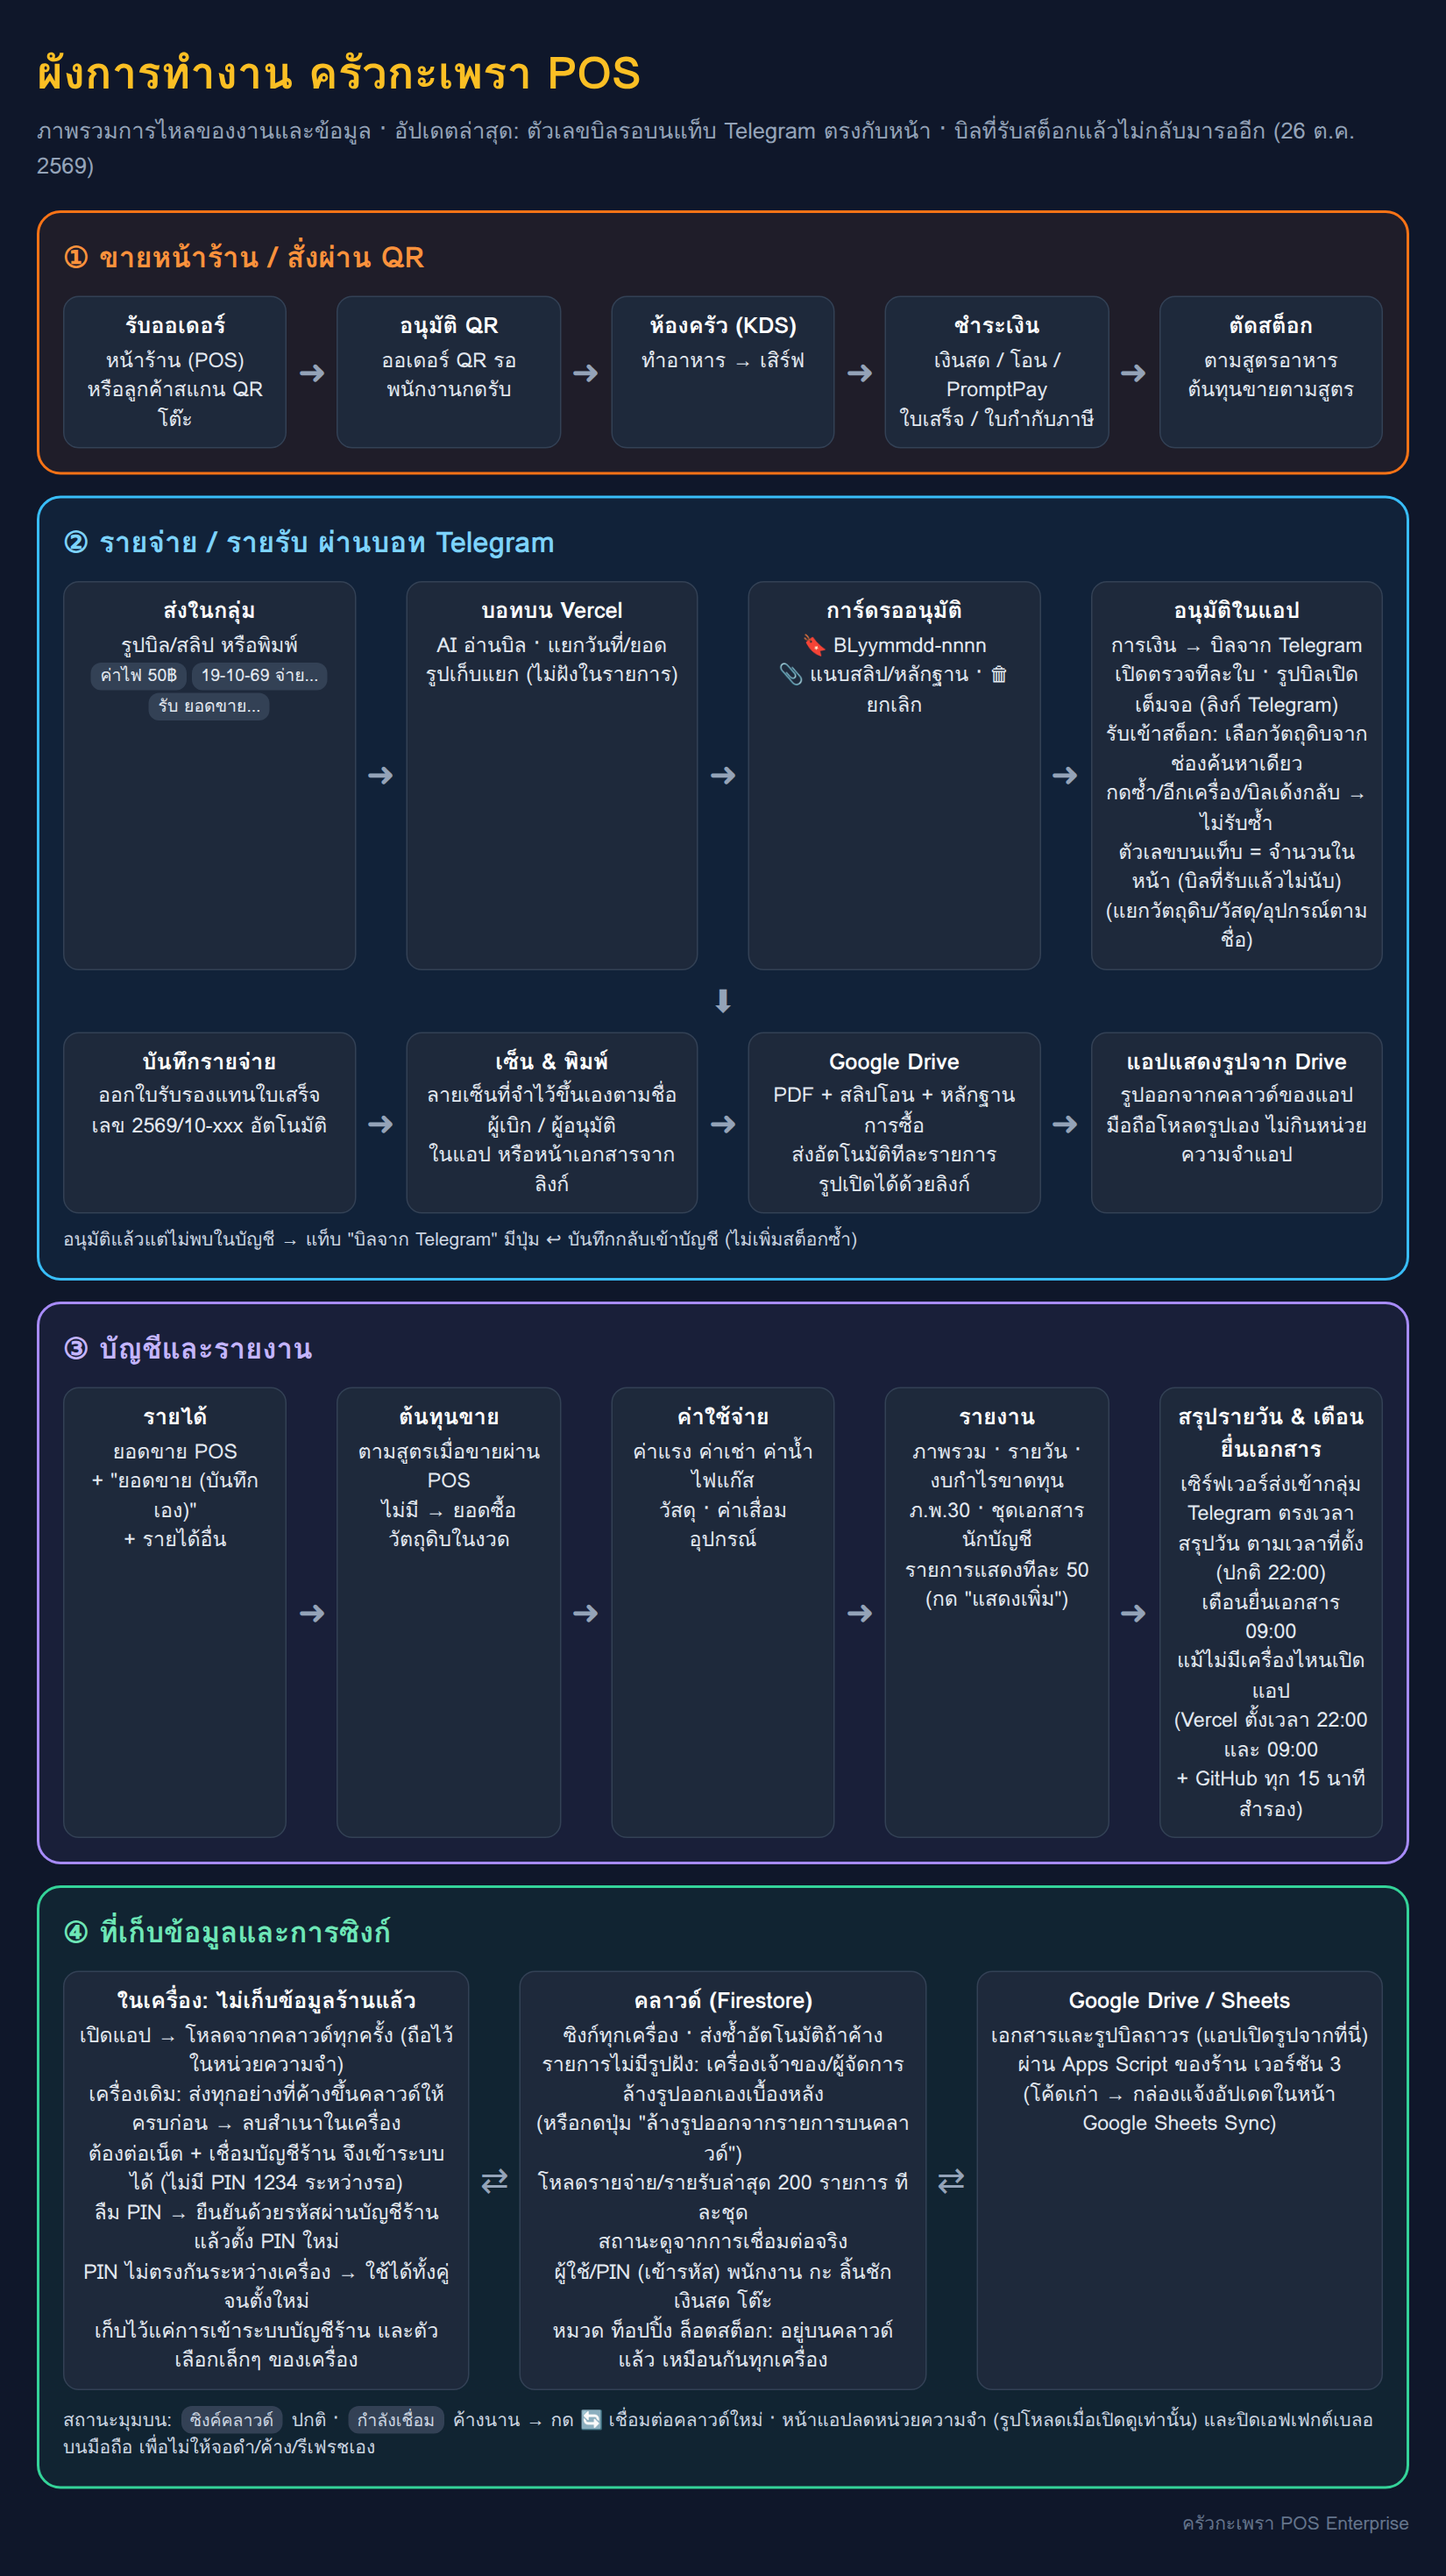
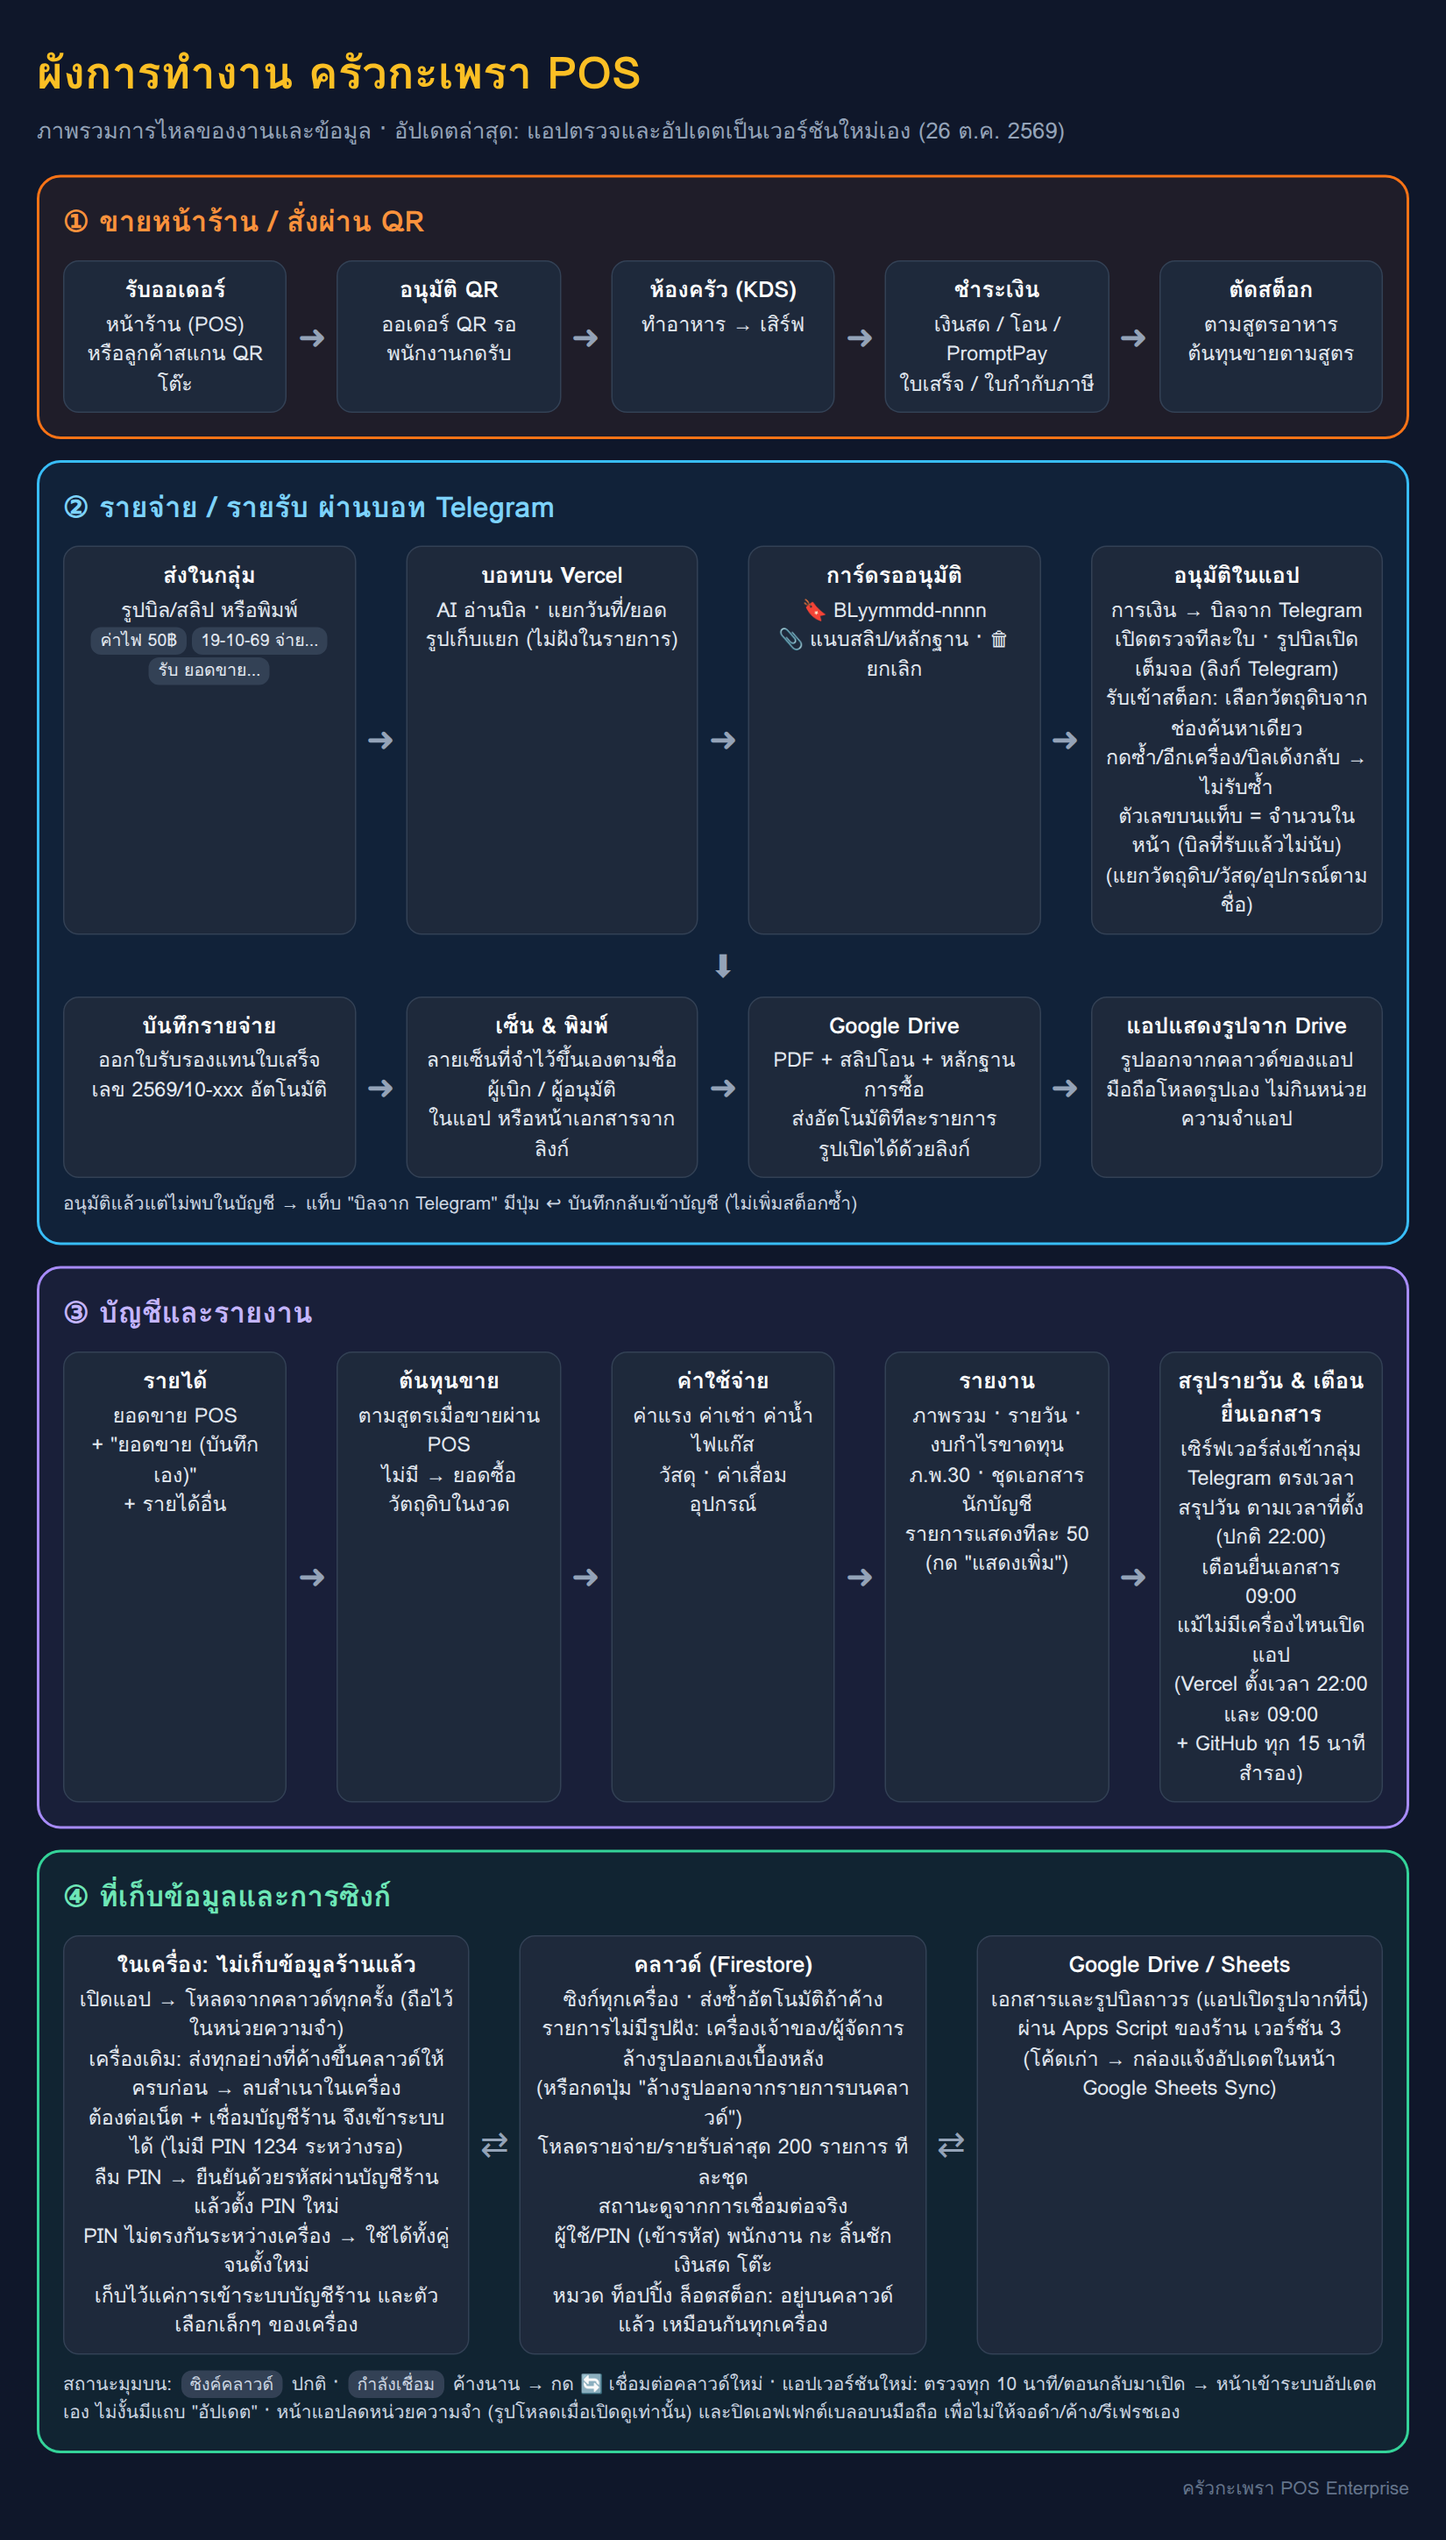
The app picks up new versions by itself
The Telegram tab still showed 2 while the page showed none: the phone was
still running the version from before the fix (published hours
earlier). A home-screen app on iPhone stays open in the background and
did not load new versions.

The app checks for a newer version when it comes back to the screen and
every 10 minutes: on the sign-in screen, or back after 20 minutes with no
order in progress, it reloads by itself; otherwise a bar offers the
update.

Claude-Session: https://claude.ai/code/session_01Gq3UvYW4wv3hsVCXoh5wxy

diff --git a/docs/workflow/flow.html b/docs/workflow/flow.html
@@ -17,7 +17,7 @@ h1{margin:0 0 4px;font-size:34px;color:#fbbf24}.sub{color:#94a3b8;font-size:17px
 .foot{color:#64748b;font-size:14px;margin-top:6px;text-align:right}
 </style></head><body>
 <h1>ผังการทำงาน ครัวกะเพรา POS</h1>
-<div class="sub">ภาพรวมการไหลของงานและข้อมูล · อัปเดตล่าสุด: ตัวเลขบิลรอบนแท็บ Telegram ตรงกับหน้า · บิลที่รับสต็อกแล้วไม่กลับมารออีก (26 ต.ค. 2569)</div>
+<div class="sub">ภาพรวมการไหลของงานและข้อมูล · อัปเดตล่าสุด: แอปตรวจและอัปเดตเป็นเวอร์ชันใหม่เอง (26 ต.ค. 2569)</div>
 
 <div class="lane pos"><h2>① ขายหน้าร้าน / สั่งผ่าน QR</h2>
 <div class="row">
@@ -60,7 +60,7 @@ h1{margin:0 0 4px;font-size:34px;color:#fbbf24}.sub{color:#94a3b8;font-size:17px
 <div class="box"><b>คลาวด์ (Firestore)</b>ซิงก์ทุกเครื่อง · ส่งซ้ำอัตโนมัติถ้าค้าง<br>รายการไม่มีรูปฝัง: เครื่องเจ้าของ/ผู้จัดการล้างรูปออกเองเบื้องหลัง<br>(หรือกดปุ่ม "ล้างรูปออกจากรายการบนคลาวด์")<br>โหลดรายจ่าย/รายรับล่าสุด 200 รายการ ทีละชุด<br>สถานะดูจากการเชื่อมต่อจริง<br>ผู้ใช้/PIN (เข้ารหัส) พนักงาน กะ ลิ้นชักเงินสด โต๊ะ<br>หมวด ท็อปปิ้ง ล็อตสต็อก: อยู่บนคลาวด์แล้ว เหมือนกันทุกเครื่อง</div><div class="ar">⇄</div>
 <div class="box"><b>Google Drive / Sheets</b>เอกสารและรูปบิลถาวร (แอปเปิดรูปจากที่นี่)<br>ผ่าน Apps Script ของร้าน เวอร์ชัน 3<br>(โค้ดเก่า → กล่องแจ้งอัปเดตในหน้า Google Sheets Sync)</div>
 </div>
-<div class="note">สถานะมุมบน: <span class="tag">ซิงค์คลาวด์</span> ปกติ · <span class="tag">กำลังเชื่อม</span> ค้างนาน → กด 🔄 เชื่อมต่อคลาวด์ใหม่ · หน้าแอปลดหน่วยความจำ (รูปโหลดเมื่อเปิดดูเท่านั้น) และปิดเอฟเฟกต์เบลอบนมือถือ เพื่อไม่ให้จอดำ/ค้าง/รีเฟรชเอง</div>
+<div class="note">สถานะมุมบน: <span class="tag">ซิงค์คลาวด์</span> ปกติ · <span class="tag">กำลังเชื่อม</span> ค้างนาน → กด 🔄 เชื่อมต่อคลาวด์ใหม่ · แอปเวอร์ชันใหม่: ตรวจทุก 10 นาที/ตอนกลับมาเปิด → หน้าเข้าระบบอัปเดตเอง ไม่งั้นมีแถบ "อัปเดต" · หน้าแอปลดหน่วยความจำ (รูปโหลดเมื่อเปิดดูเท่านั้น) และปิดเอฟเฟกต์เบลอบนมือถือ เพื่อไม่ให้จอดำ/ค้าง/รีเฟรชเอง</div>
 </div>
 <div class="foot">ครัวกะเพรา POS Enterprise</div>
 </body></html>

diff --git a/src/components/UpdateWatcher.tsx b/src/components/UpdateWatcher.tsx
@@ -1,0 +1,74 @@
+import { useEffect, useState } from 'react';
+import { RefreshCw } from 'lucide-react';
+import { usePOS } from '../context/POSContext';
+
+const CHECK_EVERY_MS = 10 * 60_000;
+/** Back from the background after this long: reloaded right away when nothing is in progress */
+const AWAY_RELOAD_MS = 20 * 60_000;
+
+/** The app's main script, e.g. assets/index-b_Yxw8ca.js (changes with every new version) */
+const entryOf = (html: string) => html.match(/assets\/index-[\w-]+\.js/)?.[0] || '';
+const runningEntry = () => {
+  const s = document.querySelector<HTMLScriptElement>('script[type="module"][src*="assets/index-"]');
+  return s ? entryOf(s.getAttribute('src') || '') : '';
+};
+
+/**
+ * A phone keeps the app open in the background for days (iPhone home-screen apps especially), so
+ * fixes published since never reached it. The app checks for a newer version when it comes back to
+ * the screen and every 10 minutes: on the sign-in screen, or back after a while with no order in
+ * progress, it reloads by itself; otherwise a bar offers the update.
+ */
+export const UpdateWatcher = () => {
+  const { isLocked, cart } = usePOS();
+  const [ready, setReady] = useState(false);
+
+  useEffect(() => {
+    const running = runningEntry();
+    if (!running) return; // development server
+    let hiddenAt = 0;
+    const check = async (cameBack: boolean) => {
+      try {
+        const res = await fetch(`${import.meta.env.BASE_URL || './'}index.html?v=${Date.now()}`, { cache: 'no-store' });
+        if (!res.ok) return;
+        const latest = entryOf(await res.text());
+        if (!latest || latest === running) return;
+        const away = cameBack && hiddenAt && Date.now() - hiddenAt > AWAY_RELOAD_MS;
+        if (isLockedRef.current || (away && cartEmptyRef.current)) window.location.reload();
+        else setReady(true);
+      } catch {
+        // offline: checked again later
+      }
+    };
+    const onVisible = () => {
+      if (document.visibilityState === 'hidden') hiddenAt = Date.now();
+      else void check(true);
+    };
+    document.addEventListener('visibilitychange', onVisible);
+    const t = setInterval(() => void check(false), CHECK_EVERY_MS);
+    return () => {
+      document.removeEventListener('visibilitychange', onVisible);
+      clearInterval(t);
+    };
+  }, []);
+
+  isLockedRef.current = isLocked;
+  cartEmptyRef.current = !cart?.length;
+  // On the sign-in screen an update waiting is taken at once
+  useEffect(() => {
+    if (ready && isLocked) window.location.reload();
+  }, [ready, isLocked]);
+
+  if (!ready) return null;
+  return (
+    <div className="bg-emerald-950 border-b border-emerald-800 text-emerald-100 px-4 py-2 text-xs flex items-center justify-between gap-3">
+      <span>มีแอปเวอร์ชันใหม่ (แก้ไขล่าสุด) กดอัปเดตได้เลย ข้อมูลอยู่บนคลาวด์ ไม่หาย</span>
+      <button type="button" onClick={() => window.location.reload()} className="shrink-0 h-8 px-3 rounded-lg bg-emerald-700 font-bold flex items-center gap-1">
+        <RefreshCw className="w-3.5 h-3.5" /> อัปเดต
+      </button>
+    </div>
+  );
+};
+
+const isLockedRef = { current: false };
+const cartEmptyRef = { current: true };

diff --git a/src/App.tsx b/src/App.tsx
@@ -36,6 +36,7 @@ import { SheetsScriptAutoSync } from './components/sheets/SheetsScriptAutoSync';
 import { FilingReminder } from './components/filings/FilingReminder';
 import { ScheduleSync } from './components/ScheduleSync';
 import { ShopAccountBanner } from './components/ShopAccountBanner';
+import { UpdateWatcher } from './components/UpdateWatcher';
 import { AutoCloudPictureCleanup } from './components/settings/CloudPictureCleanup';
 import { startupCrashes } from './utils/bootGuard';
 import { canOpenTab, firstAllowedTab } from './utils/access';
@@ -161,6 +162,7 @@ const MainLayout: React.FC = () => {
 
       {/* Staff device not signed in with the shop account: cloud sync is blocked by the rules */}
       {!isLocked && <ShopAccountBanner />}
+      <UpdateWatcher />
 
       {!isLocked && crashNotice && (
         <div className="bg-sky-950 border-b border-sky-800 text-sky-100 px-4 py-2 text-xs flex items-center justify-between gap-3">
